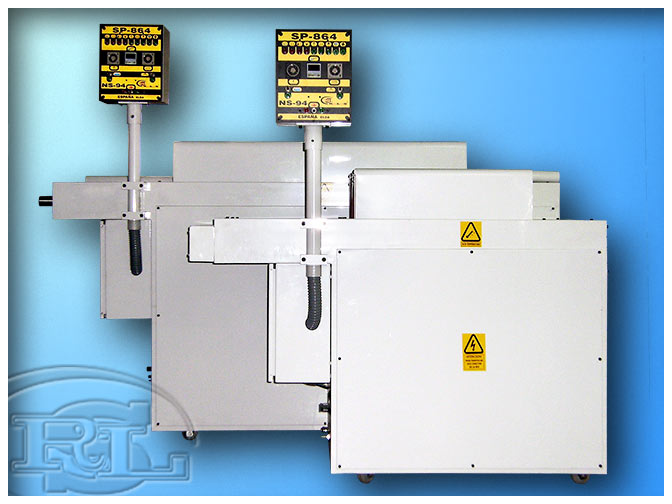
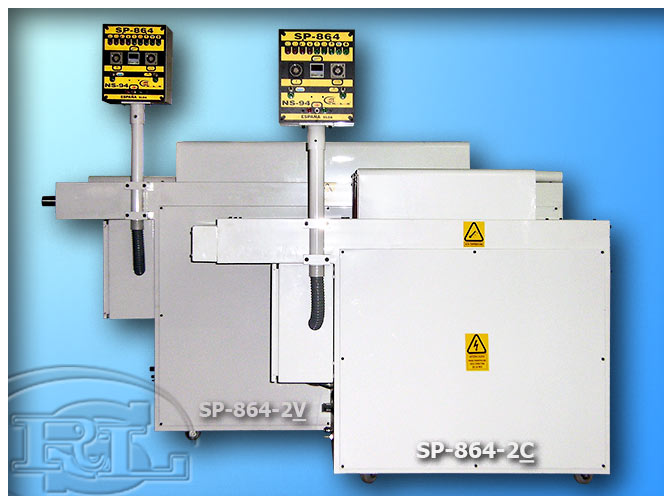
Modified:'SP-864-2C' info. FP machines voltage corrected. Other tweaks...

diff --git a/maquinas/hornos/maqNu_hornoAcondicionador_sp-864-2c.htm b/maquinas/hornos/maqNu_hornoAcondicionador_sp-864-2c.htm
@@ -178,8 +178,8 @@ counter++;
         </tr>
         <tr>
        		<td colspan="4"><p><span class="boldText">RaLoS</span> dispone de un horno acondicionador compacto <span class="boldText">&quot;RaLoS SP-864-2C&quot;</span>, especialmente diseñado para entornos de trabajo donde la disponibilidad de espacio es limitada, y no se precisa de una producción (aproximada) superior a 100 pares/hora.</p>
-<p>La función del horno acondicionador de calzado <span class="boldText">&quot;RaLoS SP-86-2C&quot;</span>, consiste en extraer arrugas y ahormar el zapato dentro de su horma; haciéndolo pasar por un túnel a lo largo del cual se le proyecta <span class="boldText">aire caliente forzado</span> y <span class="boldText">vapor</span>, siendo estos totalmente regulables para adaptarse así a todo tipo de materiales y modelos.</p>
-<p>La propiedad más importante del<span class="boldText"> &quot;SP-86-2V&quot;</span> es que el aire forzado va conducido directamente a las <span class="boldText">paredes del zapato</span>, incidiendo en las zonas de los enfranques y dejándolos así totalmente planchados. Otra propiedad destacable, es que el aire caliente emitido es devuelto  a la cámara de resistencias formando un circuito cerrrado que se traduce en un <span class="boldText">ahorro energético</span> muy considerable. *</p>
+<p>La función del horno acondicionador de calzado <span class="boldText">&quot;RaLoS SP-864-2C&quot;</span>, consiste en extraer arrugas y ahormar el zapato dentro de su horma; haciéndolo pasar por un túnel a lo largo del cual se le proyecta <span class="boldText">aire caliente forzado</span> y <span class="boldText">vapor</span>, siendo estos totalmente regulables para adaptarse así a todo tipo de materiales y modelos.</p>
+<p>La propiedad más importante del<span class="boldText"> &quot;SP-864-2C&quot;</span> es que el aire forzado va conducido directamente a las <span class="boldText">paredes del zapato</span>, incidiendo en las zonas de los enfranques y dejándolos así totalmente planchados. Otra propiedad destacable, es que el aire caliente emitido es devuelto  a la cámara de resistencias formando un circuito cerrrado que se traduce en un <span class="boldText">ahorro energético</span> muy considerable. *</p>
 <p>* <span style="font-size:80%">Para más detalles, <a href="maqFp_hornoAcondicionador_RaLoS_SP-864.htm" target="mainFrame" class="boldText">puedes visitar la página del &quot;SP-864&quot; haciendo clic aquí.</a></span></p></td>
         </tr>
         <tr bgcolor="#FFFFFF">
@@ -187,7 +187,7 @@ counter++;
         </tr>
         <tr>
           <td width="25%"><span class="boldText">Conexión Eléctrica:</span></td>
-<td width="25%">220/380 V 50/60 Hz</td>
+<td width="25%">220/380 V - 50 Hz (Trif.)</td>
           <td width="25%"><span class="boldText">Alim. Neumática:</span></td>
 <td width="25%">5 bar</td>
         </tr>
@@ -204,22 +204,21 @@ counter++;
 <td width="25%">N/D<sup></sup></td>
         </tr>
         <tr>
-          <td width="25%"><span class="boldText">Consumo Agua (max.):</span></td>
+          <td width="25%"><span class="boldText">Consumo Agua (Máx.):</span></td>
 <td width="25%">4,5 l/h</td>
-          <td width="25%"><span class="boldText">Peso Neto:</span></td>
-<td width="25%">N/D</td>
+          <td width="25%"><span class="boldText">Peso Neto (Aprox.):</span></td>
+<td width="25%">240 kg</td>
         </tr>
         <tr bgcolor="#FFFFFF">
           <th colspan="4"><h3>CARACTERÍSTICAS DE TRABAJO</h3></th>
         </tr>
 				<tr>
-     		<td colspan="4"><p><span class="boldText">a)</span> El zapato en su trayecto pasa por las siguientes fases:</p>
-<p style="padding-left: 32px;"><span class="boldText">1.-</span> Aire caliente forzado y gran caudal combinado con vapor (PULVERIZADOR) a <span class="boldText">presión regulable</span>, si se requiere.<br />
-<span class="boldText">2.-</span> Aire caliente forzado para <span class="boldText">secar</span> el calzado.<br />
-<span class="boldText">3.-</span> Emulsión de aire ambiente forzado para <span class="boldText">enfriar</span> la horma a la salida del túnel.</p>
-<p><span class="boldText">b)</span>  Regulación tanto de la cinta de transporte a PARO/MARCHA desde “0” al máximo, como del caudal de vapor  por impulsos, obteniendo la posibilidad de mantener el calzado de <span class="boldText">3</span> a <span class="boldText">12</span> minutos dentro del horno.<br />
-<span class="boldText">c)</span> Interruptor de pausa y reciclado de aire caliente para un máximo rendimiento y menor consumo en el mínimo espacio.<br />
-<span class="boldText">d)</span> Posibilidad de pasar correctamente tanto zapatos como botas, evitando meter la caña de esta con la consiguiente deformación.</p></td>
+     		<td colspan="4">
+					<p><span class="boldText">a)</span> El zapato, en su trayecto, pasa por aire caliente forzado y gran caudal combinado con vapor (PULVERIZADOR) a <span class="boldText">presión regulable</span>, si se requiere.</p>
+					<p><span class="boldText">b)</span>  Regulación tanto de la cinta de transporte a PARO/MARCHA desde “0” al máximo, como del caudal de vapor  por impulsos, obteniendo la posibilidad de mantener el calzado de <span class="boldText">3</span> a <span class="boldText">12</span> minutos dentro del horno.</p>
+					<p><span class="boldText">c)</span> Reciclado de aire caliente para un máximo rendimiento y menor consumo en el mínimo espacio.</p>
+					<p><span class="boldText">d)</span> Posibilidad de pasar correctamente tanto zapatos como botas, evitando meter la caña de esta con la consiguiente deformación.</p>
+				</td>
         </tr>
         <tr>
           <th colspan="4" id="rowNoBg">PRODUCCIÓN DEL &quot;SP-864-2C&quot;</th>
@@ -234,7 +233,7 @@ counter++;
         </tr>
 
         <tr id="rowInfo">
-          <td width="25%" class="boldText">Inmediata</td>
+          <td width="25%"><a href="http://www.ralosmaquinaria.com/mainFrameContact.htm?Disponibilidad&Horno+Acondicionador+Compacto&'RaLoS+SP-864-2C'&(NUEVO)#formContainer" title="Ir al Formulario de Consulta" target="_self" class="boldText">Consultar</a></td>
           <td width="50%" colspan="2">Nueva</td>
         <!--<td width="50%" colspan="2">Máquina revisada en nuestro taller.</td>-->
           <td width="25%"><a href="http://www.ralosmaquinaria.com/mainFrameContact.htm?Horno+Acondicionador+Compacto&'RaLoS+SP-864-2C'&(NUEVO)#formContainer" title="Ir al Formulario de Consulta" target="_self" class="boldText">Consultar</a></td>

diff --git a/maquinas/ribetear/maqNu_ribetearPlantillasConColaTermica_rp80n.htm b/maquinas/ribetear/maqNu_ribetearPlantillasConColaTermica_rp80n.htm
@@ -179,7 +179,7 @@ counter++;
         </tr>
         <tr>
           <td width="50%" colspan="2"><span class="boldText">Máxima Potencia Absorbida:</span> 0,95 kW</td>
-          <td width="50%" colspan="2"><span class="boldText">Lubricación: </span>mecanismos lubric. por sacudimiento de aceite.</td>
+          <td width="50%" colspan="2"><span class="boldText">Lubricación Mec.: </span>por sacudimiento de aceite.</td>
         </tr>
         <tr>
           <td width="50%" colspan="2"><span class="boldText">Motor STOP:</span> HP 0,5 (kW 0,37) - 1.400 rpm</td>
@@ -205,7 +205,7 @@ counter++;
         </tr>
 
         <tr id="rowInfo">
-          <td width="25%" class="boldText">Inmediata</td>
+          <td width="25%" class="boldText">Disponible</td>
           <td width="50%" colspan="2">Nueva</td>
         <!--<td width="50%" colspan="2">Máquina revisada en nuestro taller.</td>-->
           <td width="25%"><a href="http://www.ralosmaquinaria.com/mainFrameContact.htm?Maquina+para+Ribetear+Plantillas+con+Cola+Termica&'SAGITTA+RP+80+N'&(NUEVA)#formContainer" title="Ir al Formulario de Consulta" target="_self" class="boldText">Consultar</a></td>

diff --git a/maquinas/planchar/maqFp_plancharConVapor_RaLoS_FC-525-TR.htm b/maquinas/planchar/maqFp_plancharConVapor_RaLoS_FC-525-TR.htm
@@ -242,7 +242,7 @@ Tanto por diseño como por prestaciones, la &quot;FC-525-TR&quot; de RaLoS reali
         </tr>
         <tr>
           <td width="25%"><span class="boldText">Conexión Eléctrica:</span></td>
-<td width="25%">220/380 V - 50 Hz</td>
+<td width="25%">220/380 V - 50 Hz (Trif.)</td>
           <td width="25%"><span class="boldText">Alimentación Neumática:</span></td>
 <td width="25%">5 bar</td>
         </tr>
@@ -259,7 +259,7 @@ Tanto por diseño como por prestaciones, la &quot;FC-525-TR&quot; de RaLoS reali
 <td width="25%">0,81 m<sup>3</sup></td>
         </tr>
         <tr>
-          <td width="25%"><span class="boldText">Consumo Agua (max.):</span></td>
+          <td width="25%"><span class="boldText">Consumo Agua (Máx.):</span></td>
 <td width="25%">4,5 litros/h</td>
           <td width="25%"><span class="boldText">Peso Neto:</span></td>
 <td width="25%">130 kg</td>

diff --git a/maquinas/dividir/maqUs_dividir-piel_Camoga_300mm.htm b/maquinas/dividir/maqUs_dividir-piel_Camoga_300mm.htm
@@ -161,7 +161,7 @@ counter++;
 
         <tr id="rowInfo">
           <td width="25%" class="boldText"><a href="http://www.ralosmaquinaria.com/mainFrameContact.htm?Disponibilidad&Maquina+de+Dividir+Piel&'Camoga+300mm'&(OCASION)#formContainer" title="Ir al Formulario de Consulta" target="_self" class="boldText">Consultar</a></td>
-          <td width="50%" colspan="2">Restaurada</td>
+          <td width="50%" colspan="2">En condiciones de trabajo</td>
         <!--<td width="50%" colspan="2">Máquina revisada en nuestro taller.</td>-->
           <td width="25%"><a href="http://www.ralosmaquinaria.com/mainFrameContact.htm?Maquina+de+Dividir+Piel&'Camoga+300mm'&(OCASION)#formContainer" title="Ir al Formulario de Consulta" target="_self" class="boldText">Consultar</a></td>
         </tr>

diff --git a/maquinas/montar/maqNu_montarYClavarEnfranques_OBE-14-M.htm b/maquinas/montar/maqNu_montarYClavarEnfranques_OBE-14-M.htm
@@ -173,7 +173,7 @@ counter++;
           <th colspan="4"><h4>CARACTERÍSTICAS TÉCNICAS</h4></th>
         </tr>
         <tr>
-          <td width="50%" colspan="2"><span class="boldText">Conex. Eléctrica: </span>220/380 V - 50 Hz</td>
+          <td width="50%" colspan="2"><span class="boldText">Conex. Eléctrica: </span>N/A (Enteramente neumática)</td>
           <td width="50%" colspan="2"><span class="boldText">Dimens. (An./Al./Pr.):</span> 50 x 165 x 68 cm</td>
         </tr>
         <tr>

diff --git a/maquinas/hornos/maqFp_hornoAcondicionador_RaLoS_SP-864.htm b/maquinas/hornos/maqFp_hornoAcondicionador_RaLoS_SP-864.htm
@@ -207,8 +207,8 @@ counter++;
         </tr>
         <tr>
           <td width="40%" class="boldText">Conexión Eléctrica:</td>
-        	<td colspan="2">220/380 V 50/60 Hz</td>
-          <td colspan="2">220/380 V 50/60 Hz</td>
+        	<td colspan="2">220/380 V - 50 Hz (Trif.)</td>
+          <td colspan="2">220/380 V - 50 Hz (Trif.)</td>
       </tr>
         <tr>
           <td width="40%" class="boldText">Potencia Instalada:</td>

diff --git a/maquinas/hornos/maqUs_hornoAcondicionador_RaLoS_SP-86-2V.htm b/maquinas/hornos/maqUs_hornoAcondicionador_RaLoS_SP-86-2V.htm
@@ -151,7 +151,7 @@ counter++;
         </tr>
         <tr>
           <td width="25%"><span class="boldText">Conex. Eléctrica:</span></td>
-<td width="25%">220/380 V 50/60 Hz</td>
+<td width="25%">220/380 V - 50 Hz (Trif.)</td>
           <td width="25%"><span class="boldText">Alimentación Neumática:</span></td>
 <td width="25%">N/D</td>
         </tr>
